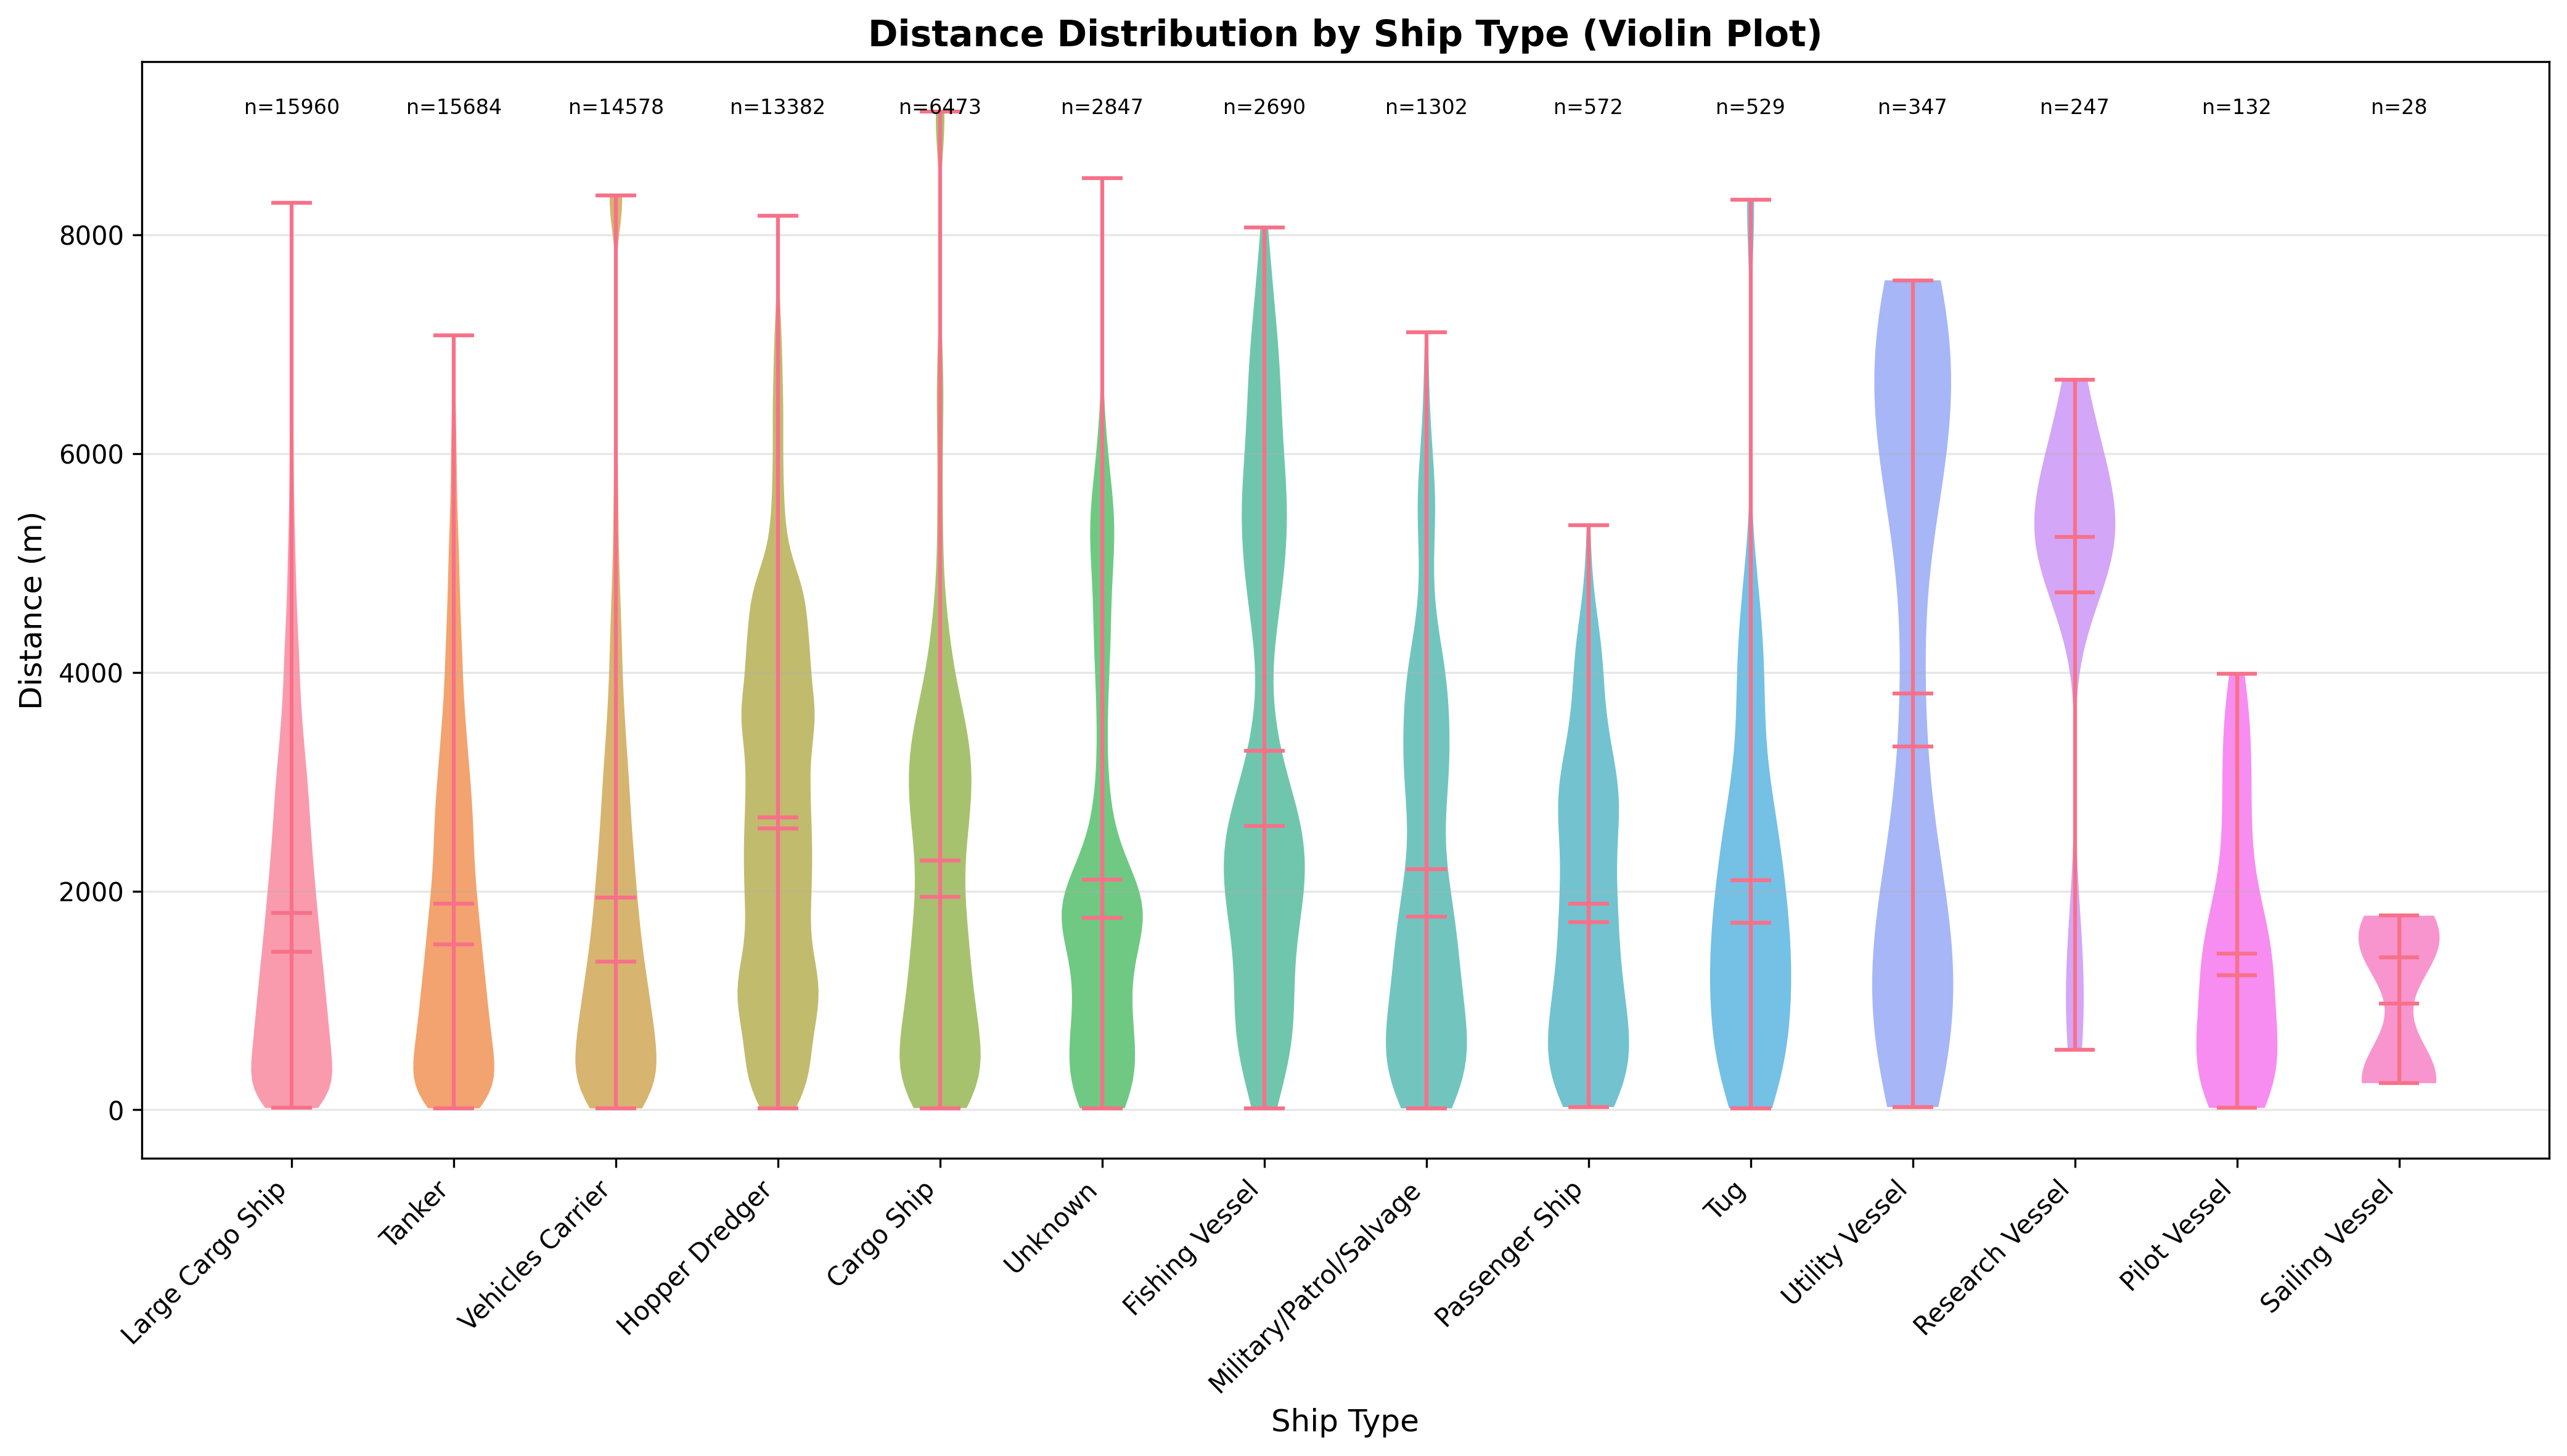
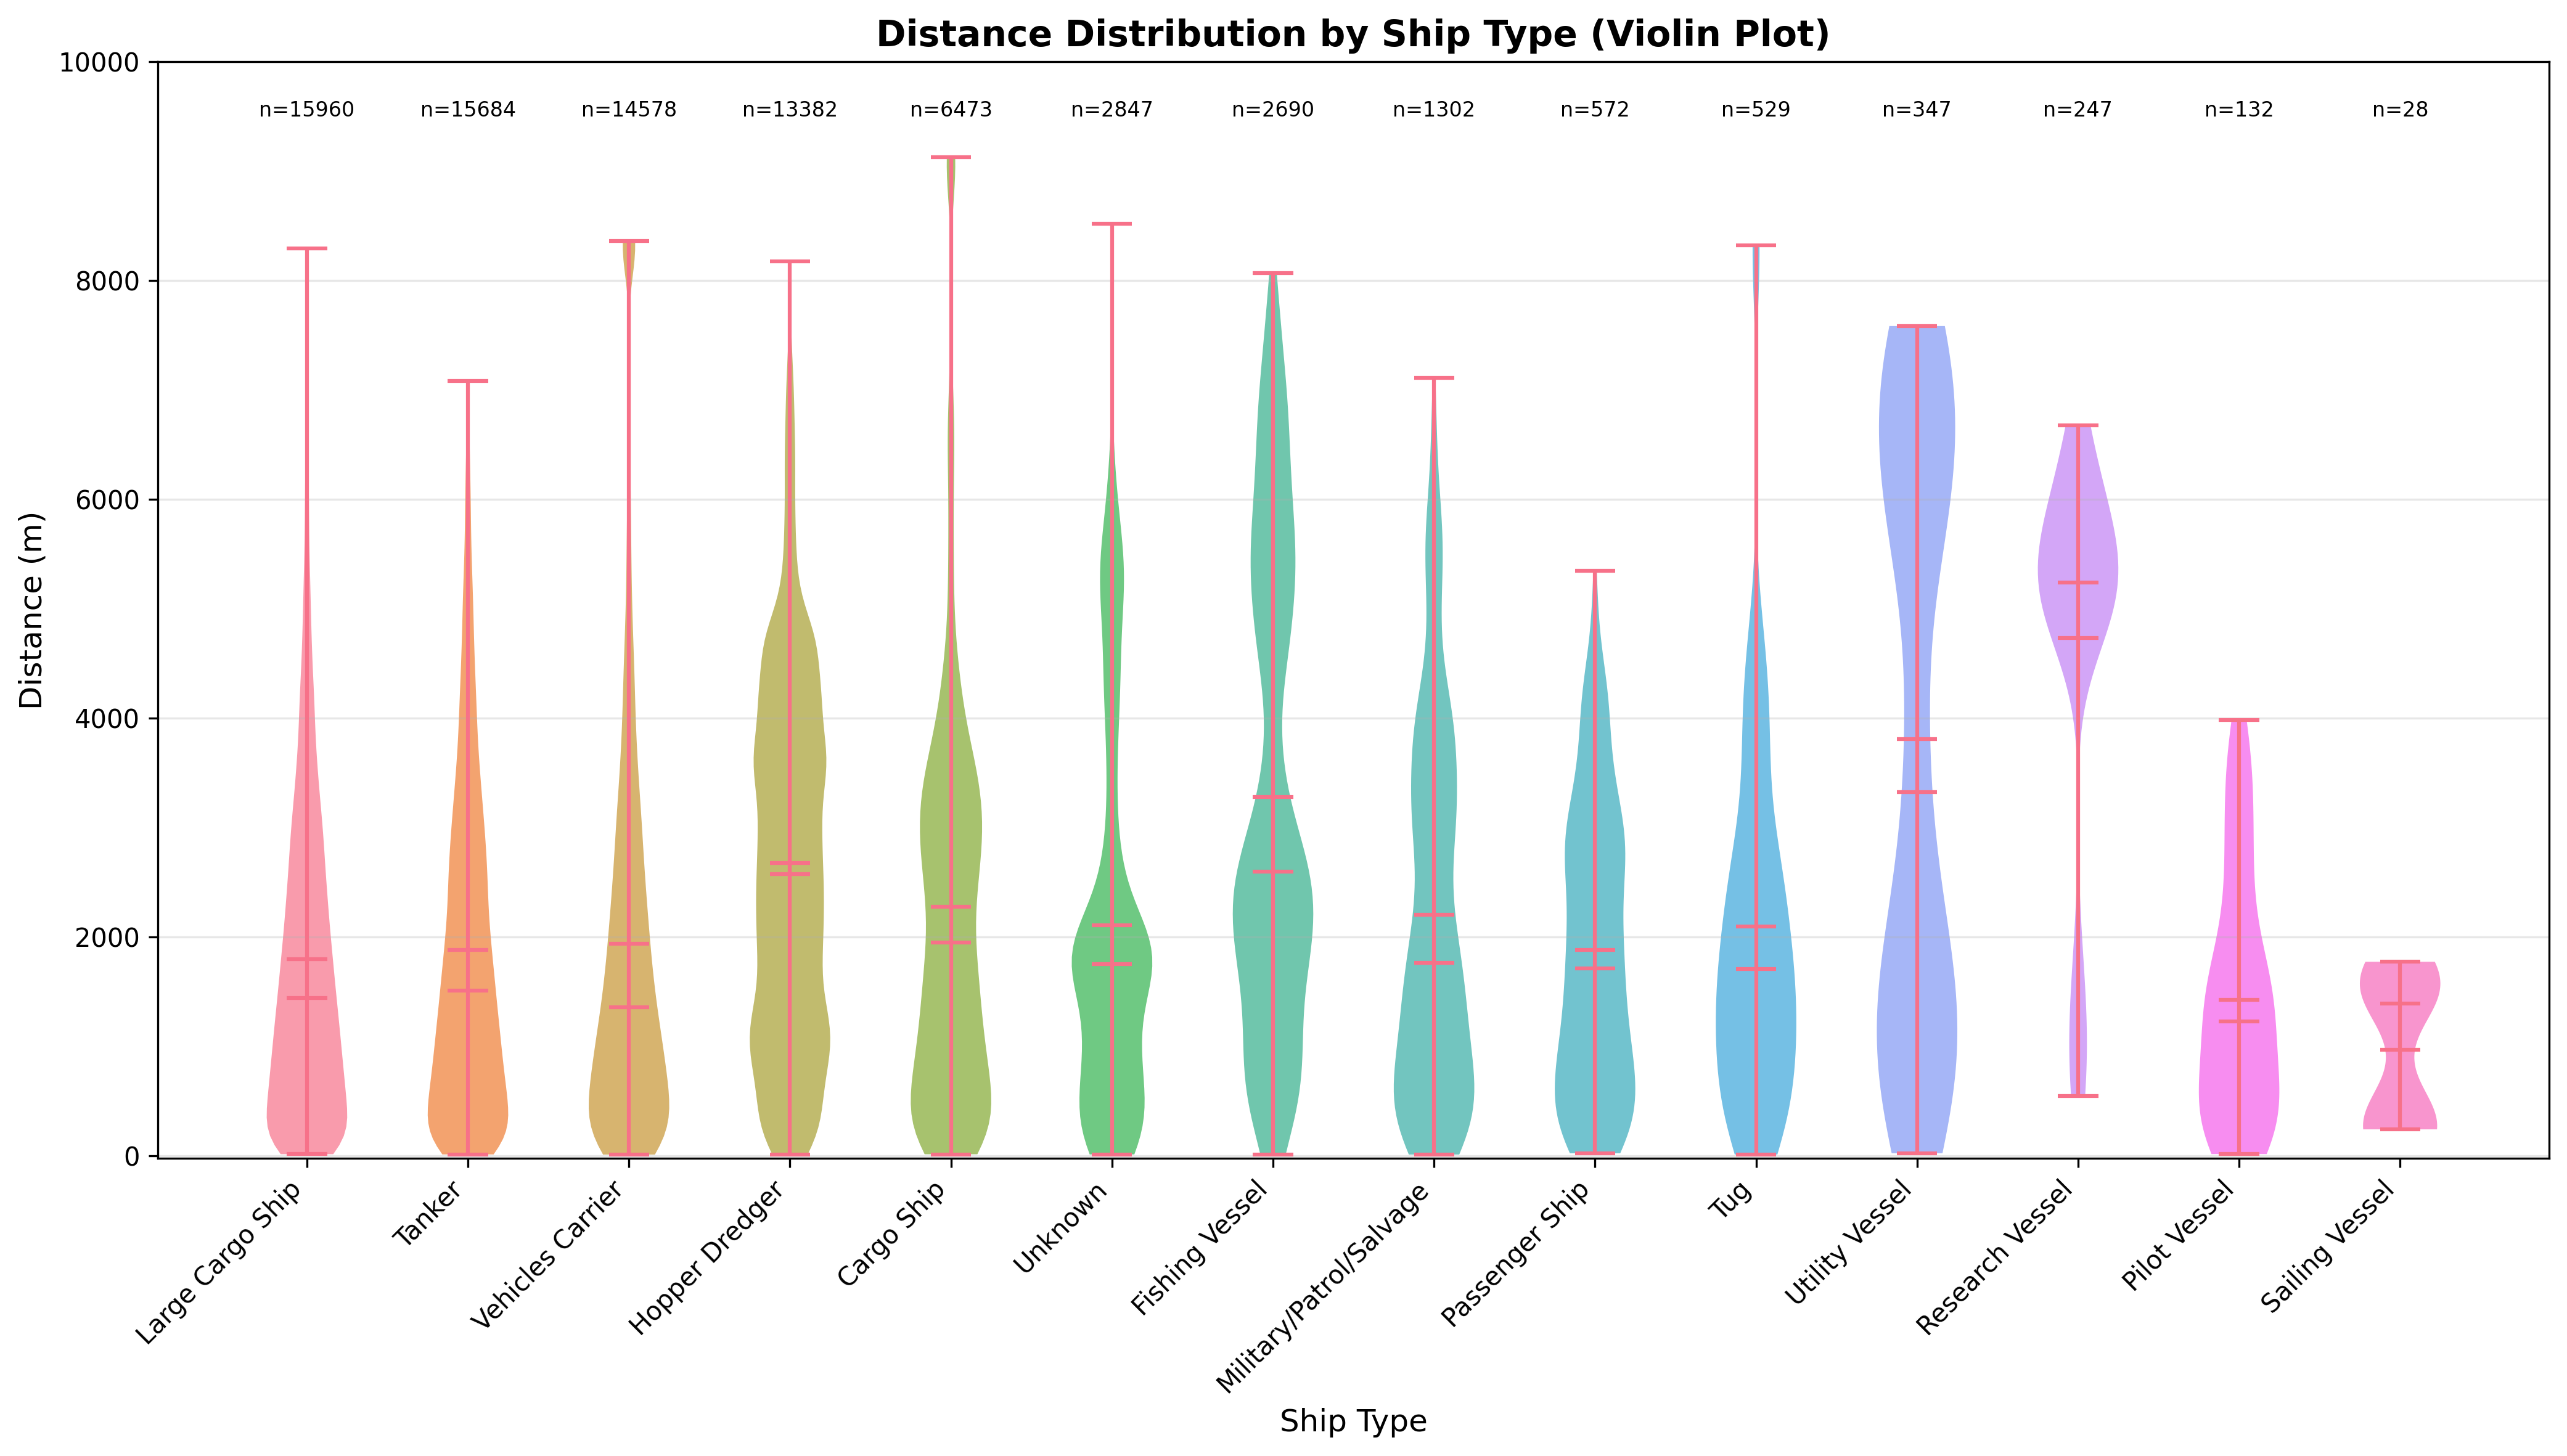
fix: mandatory section title changed & updated figs

diff --git a/original/paper.tex b/original/paper.tex
@@ -115,7 +115,7 @@ The dataset contains over $74{,}000$ preprocessed and labeled data instances fro
 
 %\section{Background \& Summary}
 
-\section{Introduction and background}
+\section{Background \& Summary}
 
 Submarine cables are vital for global communication and power transmission but remain vulnerable to accidental damage and sabotage, with recent severe examples in the Baltic Sea. These include, for example, the damage to the EstLink2 power cable~\cite{navalnews_estlink2_2024}, and the C-Lion1 communication cable~\cite{euromaidan_baltic_2025}, both suspected of sabotage and linked to geopolitical tensions.
 
@@ -428,10 +428,9 @@ The code is distributed under a GPLv3 license, ensuring that it is free to use, 
 Users are encouraged to adapt and extend the provided scripts for their research needs. Contributions to the repository, including improvements, additional examples, and derived analysis tools, are very welcome through standard GitHub pull requests.
 
 
-\section*{Acknowledgements}
-\label{sec:acknowledgements}
+\bibliographystyle{IEEEtran-nonote}
+\bibliography{paper}
 
-This work has been partially supported by the ``Spanish Ministry of Science and Innovation'' MICIU/AEI/10.13039/501100011033, FEDER UE, and by the ``European Union NextGeneration EU/PRTR'' program under grants PSI (PLEC2021-007875), REMO (CPP2021-008869) NeurEYE-UAH (PID2024-156576OB-C31) and EYEFUL-UAH (PID2020-113118RB-C31); by FEDER ``Una manera de hacer Europa'' under grant PRECISION (PID2021-128000OBC21); by the ``European Innovation Council'' under grant SAFE (101098992) and ``Horizon Europe'' under grants SUBMERSE (101095055) and ECSTATIC (101189595). We gratefully acknowledge the computer resources at Artemisa, funded by the ``European Union ERDF'' and ``Comunitat Valenciana'' as well as the technical support provided by the ``Instituto de Fisica Corpuscular'', IFIC (CSIC-UV). We also thank the cable monitoring operator and the cable owner for allowing data access under confidenciality requirements.
 
 
 \section*{Author Contributions}
@@ -445,8 +444,12 @@ E.E.R.-T., S.E.P.-C. J.M.-G., D.P.-P. and J.T. carried out the dataset design, d
 
 The authors declare no competing interests.
 
-\bibliographystyle{IEEEtran-nonote}
-\bibliography{paper}
+\section*{Acknowledgements \& Funding}
+\label{sec:acknowledgements}
+
+This work has been partially supported by the ``Spanish Ministry of Science and Innovation'' MICIU/AEI/10.13039/501100011033, FEDER UE, and by the ``European Union NextGeneration EU/PRTR'' program under grants PSI (PLEC2021-007875), REMO (CPP2021-008869) NeurEYE-UAH (PID2024-156576OB-C31) and EYEFUL-UAH (PID2020-113118RB-C31); by FEDER ``Una manera de hacer Europa'' under grant PRECISION (PID2021-128000OBC21); by the ``European Innovation Council'' under grant SAFE (101098992) and ``Horizon Europe'' under grants SUBMERSE (101095055) and ECSTATIC (101189595). We gratefully acknowledge the computer resources at Artemisa, funded by the ``European Union ERDF'' and ``Comunitat Valenciana'' as well as the technical support provided by the ``Instituto de Fisica Corpuscular'', IFIC (CSIC-UV). We also thank the cable monitoring operator and the cable owner for allowing data access under confidenciality requirements.
+
+
 
 
 % --- Open Access License section ---